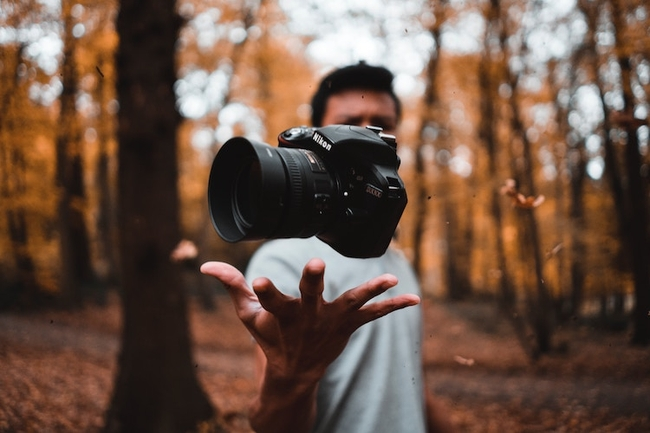
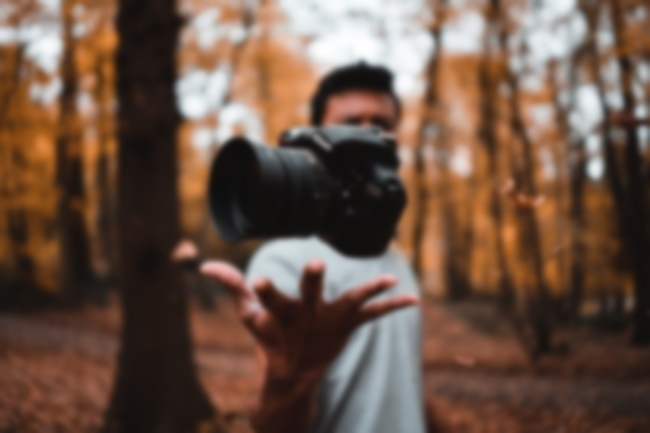
experimenting with text

diff --git a/style.css b/style.css
@@ -1,6 +1,5 @@
 html,
 body {
-    overflow: hidden;
     margin: 0;
     padding: 0;
     font-family: sans-serif;
@@ -13,7 +12,9 @@ body {
 }
 
 .bgimg {
-    filter: blur(5px) brightness(50%);
+    filter: brightness(50%);
+    backdrop-filter: 5px;
+    border-bottom: 25px solid darkblue;
 }
 
 .bottom-left {
@@ -77,5 +78,19 @@ body {
     top: 50%;
     left: 50%;
     transform: translate(-50%, -25%);
-    font-size: 55px;
+    font-size: 75px;
+}
+
+.head1 {
+    font-size: 65px;
+    font-weight: bold;
+    margin: 50px;
+    text-align: center;
+    color: darkblue;
+}
+
+.lefttext {
+    font-size: 25px;
+    text-align: left;
+
 }

diff --git a/index.html b/index.html
@@ -32,5 +32,7 @@
             </div>
         </div>
 
+        <div class="head1">Heading</div>
+        <div class="lefttext">I am describing something about the heading</div>
     </body>
 </html>
